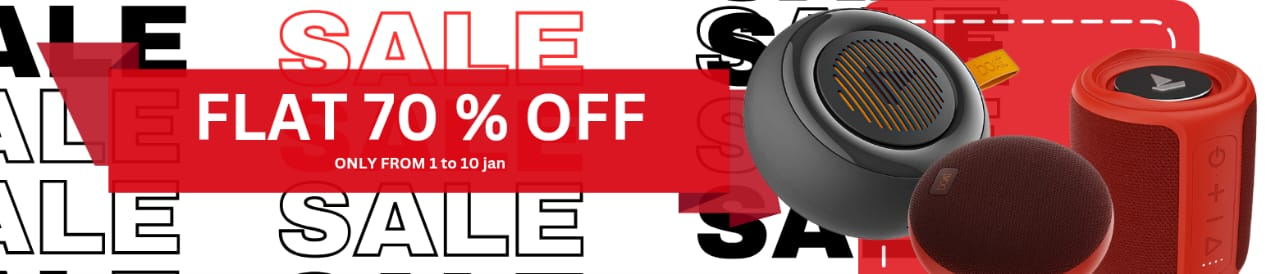
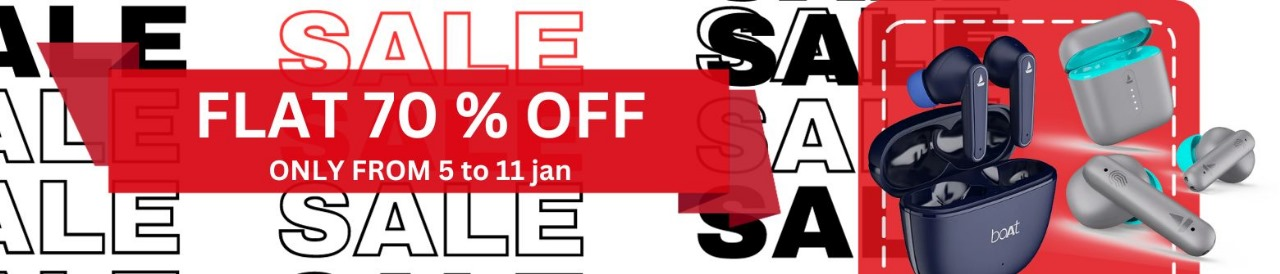
On branch main  Your branch is up to date with 'origin/main'.  Changes to be committed: 	modified:   src/Components/Assets/banner_kids.jpg 	modified:   src/Components/Assets/banner_mens.jpg 	modified:   src/Components/Assets/banner_women.jpg 	new file:   src/Components/Assets/exclusive_image.jpg 	mo

diff --git a/src/Components/Offers/Offers.css b/src/Components/Offers/Offers.css
@@ -6,7 +6,7 @@
   margin: auto;
   padding: 0px 140px;
   margin-bottom: 150px ;
-  background-image: url('../Assets/red_gradient.png');
+  background-image: url('../Assets/exclusive_image.jpg');
   background-size: 1440px;
   background-repeat: no-repeat;
   background-position: center;
@@ -53,7 +53,7 @@
     width: auto;
     background-size: cover;
     background-position: left;
-    height: calc(30vh);
+    height: calc(40vh);
   }
 }
 
@@ -62,7 +62,7 @@
     width: auto;
     background-size: cover;
     background-position: left;
-    height: calc(30vh);
+    height: calc(40vh);
   }
 }
 
@@ -75,7 +75,7 @@
   margin: auto;
   padding: 0px 140px;
   margin-bottom: 150px ;
-  background-image: url('../Assets/red_gradient.png');
+  background-image: url('../Assets/exclusive_image.jpg');
   background-size: 1440px;
   background-repeat: no-repeat;
   background-position: center;

diff --git a/src/Components/Hero/Hero.css b/src/Components/Hero/Hero.css
@@ -57,7 +57,8 @@
 @media only screen and (width < 600px){
   .hero {
     background: linear-gradient(#fa0303, #e1ffea22);
-    height: 50vh;
+    height: 70vh;
+
   }
   .hero-left {
     padding: 10px !important;
